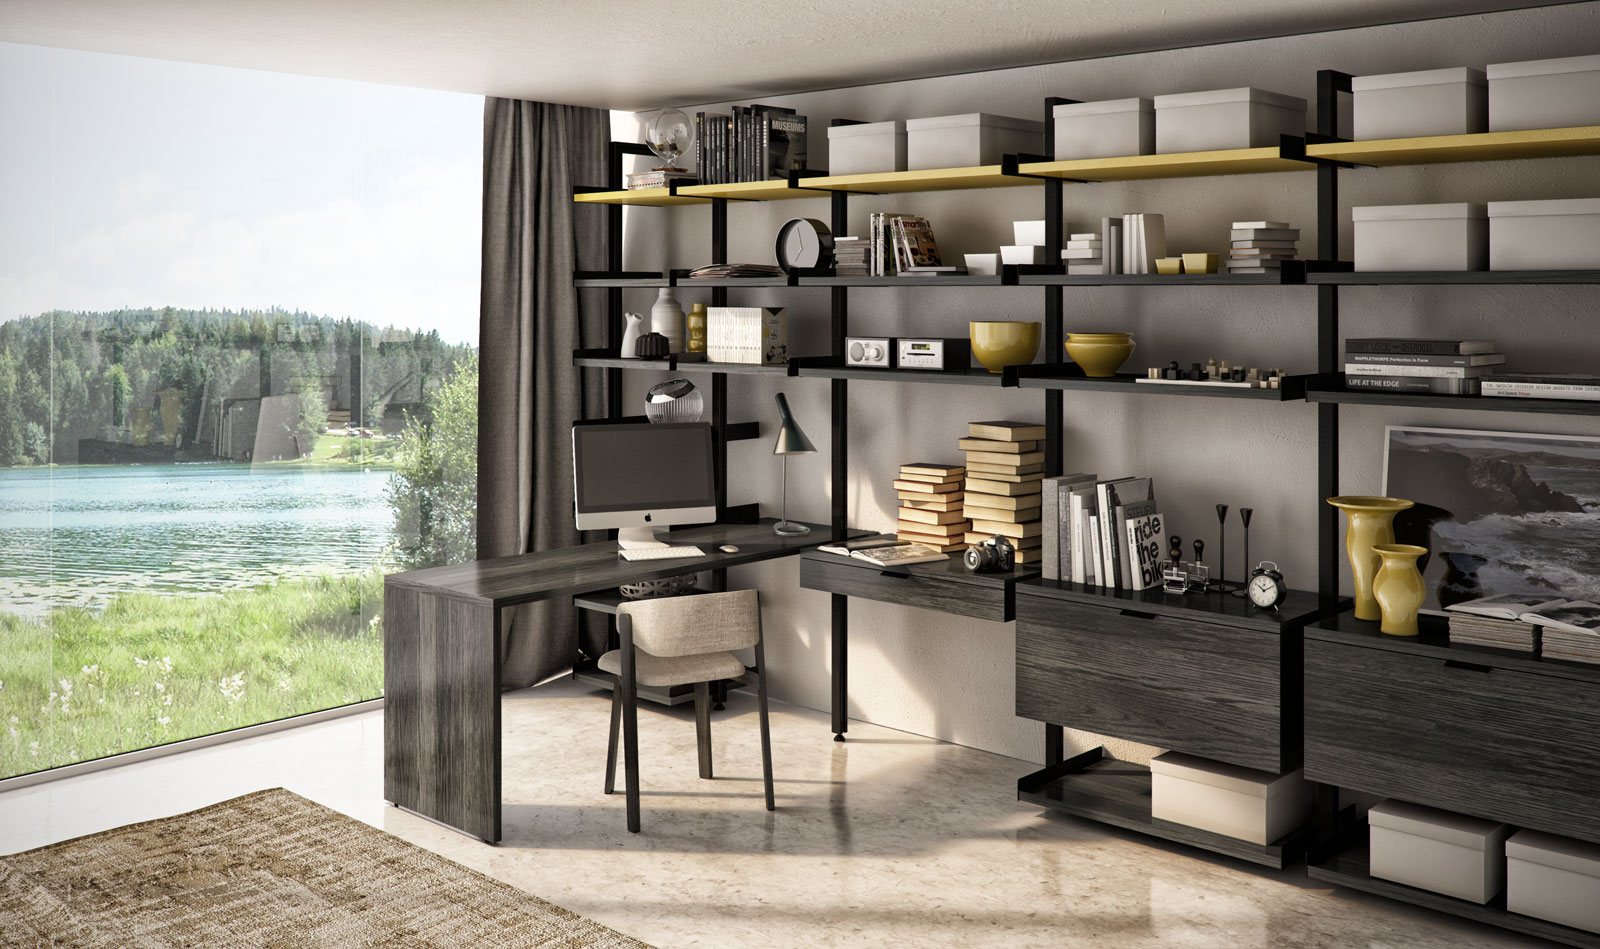
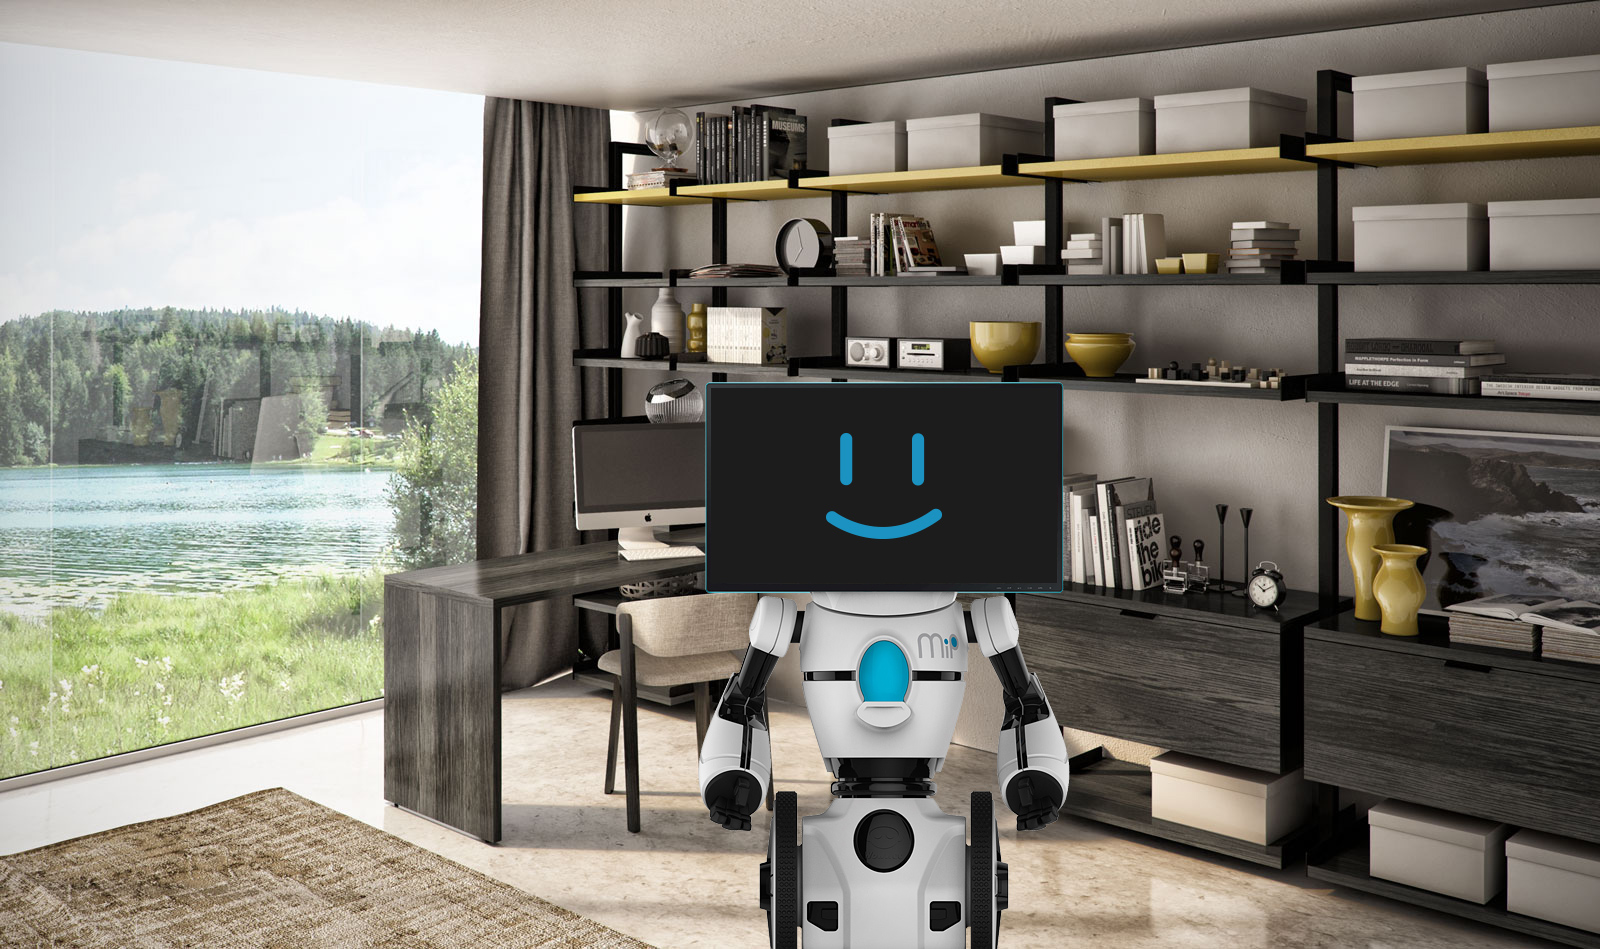
roboto

Changed region(s): [[0.4375, 0.3973, 0.6875, 1.0]]

diff --git a/www/siteTest/js/script-jeu.js b/www/siteTest/js/script-jeu.js
@@ -28,6 +28,9 @@
 /* REPLIQUES 2001 */
 	var tabRepliquesScene2001 = ["Je suis arrivé en 2001 ! Cette date ne me semble pas si lointaine, et pourtant c'est un vieil ordinateur que je vois sur le bureau là.", "C'est fou comme les évolutions des nouveaux ordinateurs se sont faîtes de plus en plus rapidement au fil des années.","Je vais continuer sur ma lancée, et je vais regarder ce qu'il y a sur cet ordinateur."];
 
+/* REPLIQUES 2030 */
+	var tabRepliquesScene2030 = ["Me voilà dans le futur ! Je suis en 2030 ! Tiens il y a un robot. Bonjour !", "C'est fou comme les évolutions des nouveaux ordinateurs se sont faîtes de plus en plus rapidement au fil des années.","Je vais continuer sur ma lancée, et je vais regarder ce qu'il y a sur cet ordinateur."];
+
 /* VARIABLES GLOBALES */
 	var texte, actual_texte, nb_msg, cursor, cursorCons;
 	var messageAideBureau = '';
@@ -121,6 +124,13 @@
 		$('#options').animate({ 'top' : '15%', 'opacity' : '0.9'},1000);
 		etatDuJeu = "scene2001";
 		textesAAfficher = tabRepliquesScene2001;
+	}else if($('#scene-2030').length == 1) {
+		$('.objets').show();
+		$('.dialogue').css('top', '55%');
+		$('.menu').animate({ 'top' : '15%', 'left' : '5%', 'opacity' : '0.9'},1000);
+		$('#options').animate({ 'top' : '15%', 'opacity' : '0.9'},1000);
+		etatDuJeu = "scene2030";
+		textesAAfficher = tabRepliquesScene2030;
 	}
 
 /* GESTION EVENEMENTS BUREAU */
